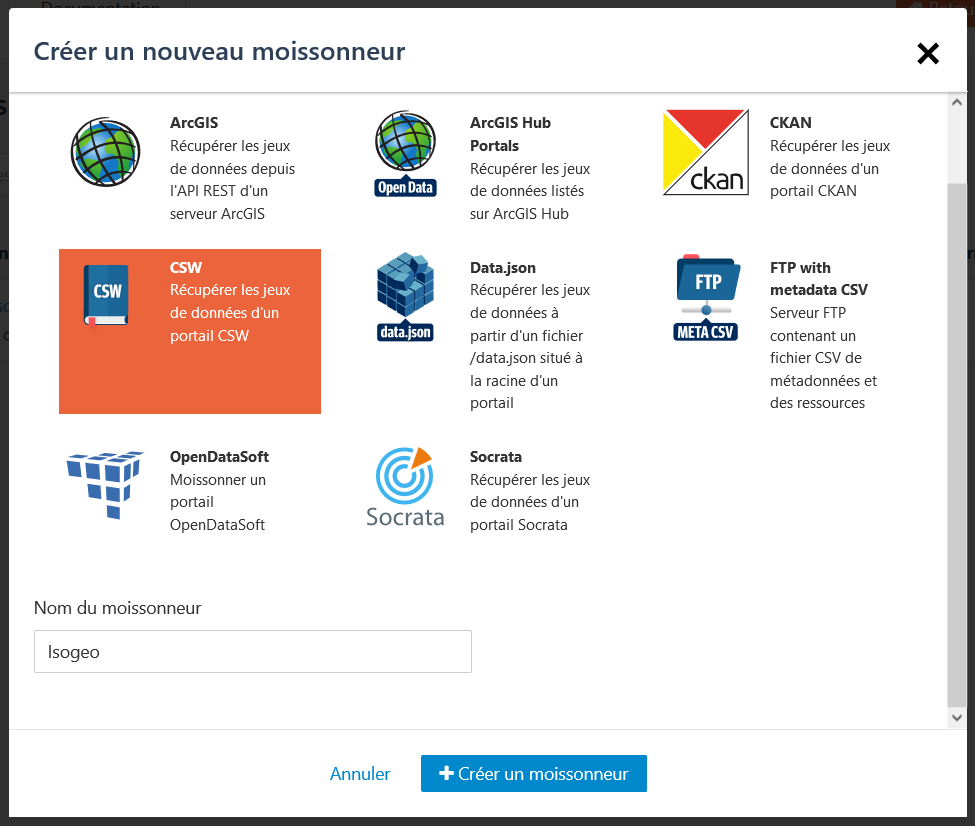
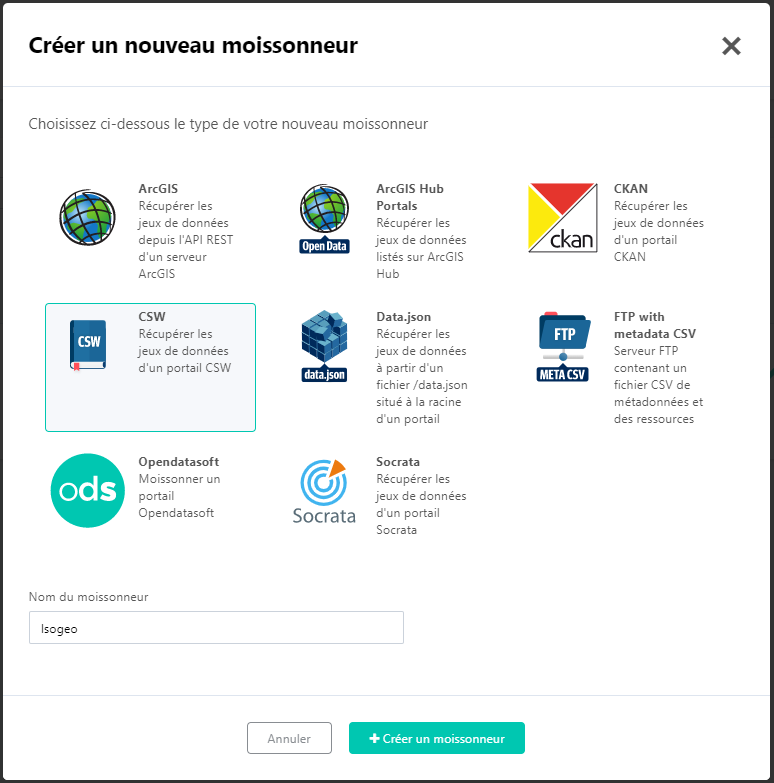
Fixes #24

Changed region(s): [[0.0, 0.0, 1.0, 1.0]]

diff --git a/fr/appendices/harvest_opendatasoft.md b/fr/appendices/harvest_opendatasoft.md
@@ -1,15 +1,17 @@
-# Publier sur OpenDataSoft
+# Publier sur Opendatasoft
 
 ## Description
 
-OpenDataSoft est une entreprise éditrice de la plateforme logicielle éponyme dédiée aux données ouvertes et fonctionnant également sur le mode _SaaS_.
+Opendatasoft est une entreprise éditrice de la plateforme logicielle éponyme dédiée aux données ouvertes et fonctionnant également sur le mode _SaaS_.
+
+!["Logo"](/assets/ods/logo_ods.png)
 
 ## Prérequis {#requirements}
 
 - disposer d&apos;un groupe de travail Isogeo avec le module CSW activé
-- disposer d&apos;une organisation OpenDataSoft avec :
+- disposer d&apos;une organisation Opendatasoft avec :
   - le [moissonneur CSW](https://help.opendatasoft.com/platform/fr/publishing_data/02_harvesting_a_catalog/harvesters/csw.html) activé
-  - les métadonnées [DCAT](https://help.opendatasoft.com/platform/fr/publishing_data/06_configuring_metadata/interoperability_metadata.html#dcat-metadata) et [INSPIRE](https://help.opendatasoft.com/platform/fr/publishing_data/06_configuring_metadata/interoperability_metadata.html#inspire)
+  - les métadonnées [DCAT](https://help.opendatasoft.com/platform/fr/publishing_data/06_configuring_metadata/interoperability_metadata.html#dcat-metadata) et [INSPIRE](https://help.Opendatasoft.com/platform/fr/publishing_data/06_configuring_metadata/interoperability_metadata.html#inspire)
 - disposer de métadonnées de données avec des services WFS associés et accessibles publiquement
 
 ## Processus global {#step-by-step}
@@ -17,7 +19,7 @@ OpenDataSoft est une entreprise éditrice de la plateforme logicielle éponyme d
 Voici les grandes étapes :
 
 1. Créer un partage Isogeo à l&apos;applicatikon CSW et récupérer l&apos;URL du service CSW ;
-2. Ajouter un [moissonneur CSW](https://docs.opendatasoft.com/fr/sourcing_and_processing_data/harvesters/csw.html) dans le _Back Office_ OpenDataSoft
+2. Ajouter un [moissonneur CSW](https://docs.opendatasoft.com/fr/sourcing_and_processing_data/harvesters/csw.html) dans le _Back Office_ Opendatasoft
 
 ### Créer un service CSW dans Isogeo {#csw-srv}
 
@@ -27,14 +29,14 @@ Si plusieurs catalogues sont partagés, il est recommandé d&apos;appliquer la m
 
 Au terme de cette étape, vous disposez d&apos;une URL (dite GetCapabilities) du service CSW du type : <https://services.api.isogeo.com/ows/s/22ececf244e14be293a7a1e58619289e/8WuwB5H9ysC-XztiBS93s-DmDNdW0?service=CSW&version=2.0.2&request=GetCapabilities.>
 
-### Moissonner le service CSW dans OpenDataSoft {#harvester}
+### Moissonner le service CSW dans Opendatasoft {#harvester}
 
-La [documentation officielle d&apos;OpenDataSoft fait référence](https://docs.opendatasoft.com/fr/sourcing_and_processing_data/harvesting_a_catalog.html), ce paragraphe n&apos;étant destiné qu&apos;à accompagner au mieux l&apos;administrateur Isogeo. 
+La [documentation officielle d&apos;Opendatasoft fait référence](https://docs.opendatasoft.com/fr/sourcing_and_processing_data/harvesting_a_catalog.html), ce paragraphe n&apos;étant destiné qu&apos;à accompagner au mieux l&apos;administrateur Isogeo. 
 
 1. Dans le `Back Office`, se rendre dans la gestion des moissonneurs (une url du type : <https://monorganisation.opendatasoft.com/backoffice/catalog/harvesters/)> et cliquer sur le bouton `+ Ajouter un moissonneur`.
 2. Créer un moissonneur en sélectionnant le type `CSW` :
 
-    ![](/assets/ods/csw2ods_harvester_create.png "OpenDataSoft - Création du moissonneur CSW")
+![](/assets/ods/csw2ods_harvester_create.png "Opendatasoft - Création du moissonneur CSW")
 
 3. Dans le formulaire, coller l&apos;URL du service CSW généré à l&apos;étape précédente et cliquer sur `Aperçu`puis sur `Enregistrer`.
 
@@ -42,7 +44,7 @@ La [documentation officielle d&apos;OpenDataSoft fait référence](https://docs.
 
 Il est possible de :
 
-- planifier le moissonnage : [voir la documentation OpenDataSoft](https://docs.opendatasoft.com/fr/sourcing_and_processing_data/harvesting_a_catalog.html#scheduling).
+- planifier le moissonnage : [voir la documentation Opendatasoft](https://docs.opendatasoft.com/fr/sourcing_and_processing_data/harvesting_a_catalog.html#scheduling).
 - surcharger les métadonnées pour assurer une traçabilité :
 
-![](/assets/ods/csw2ods_harvester_option_overload.png "OpenDataSoft - Surcharger les métadonnées")
+![](/assets/ods/csw2ods_harvester_option_overload.png "Opendatasoft - Surcharger les métadonnées")

diff --git a/fr/SUMMARY.md b/fr/SUMMARY.md
@@ -114,7 +114,7 @@
 * [Services - Les liens manuels pour les scénarios A et B](appendices/webgeoservices_in_csw.md)
 * [Services - Configurer les WFS en JSONP](appendices/wfs_jsonp.md)
 * [Se faire moissonner par le Géocatalogue national](appendices/harvest_geocatalogue_fr.md)
-* [Se faire moissonner par OpenDataSoft](appendices/harvest_opendatasoft.md)
+* [Se faire moissonner par Opendatasoft](appendices/harvest_opendatasoft.md)
 * [Diffuser ses donn&eacute;es sur DataGouv.fr](appendices/harvest_datagouv_fr.md)
 * [RGPD](appendices/gdpr.md)
 * [Glossaire](GLOSSARY.md)
